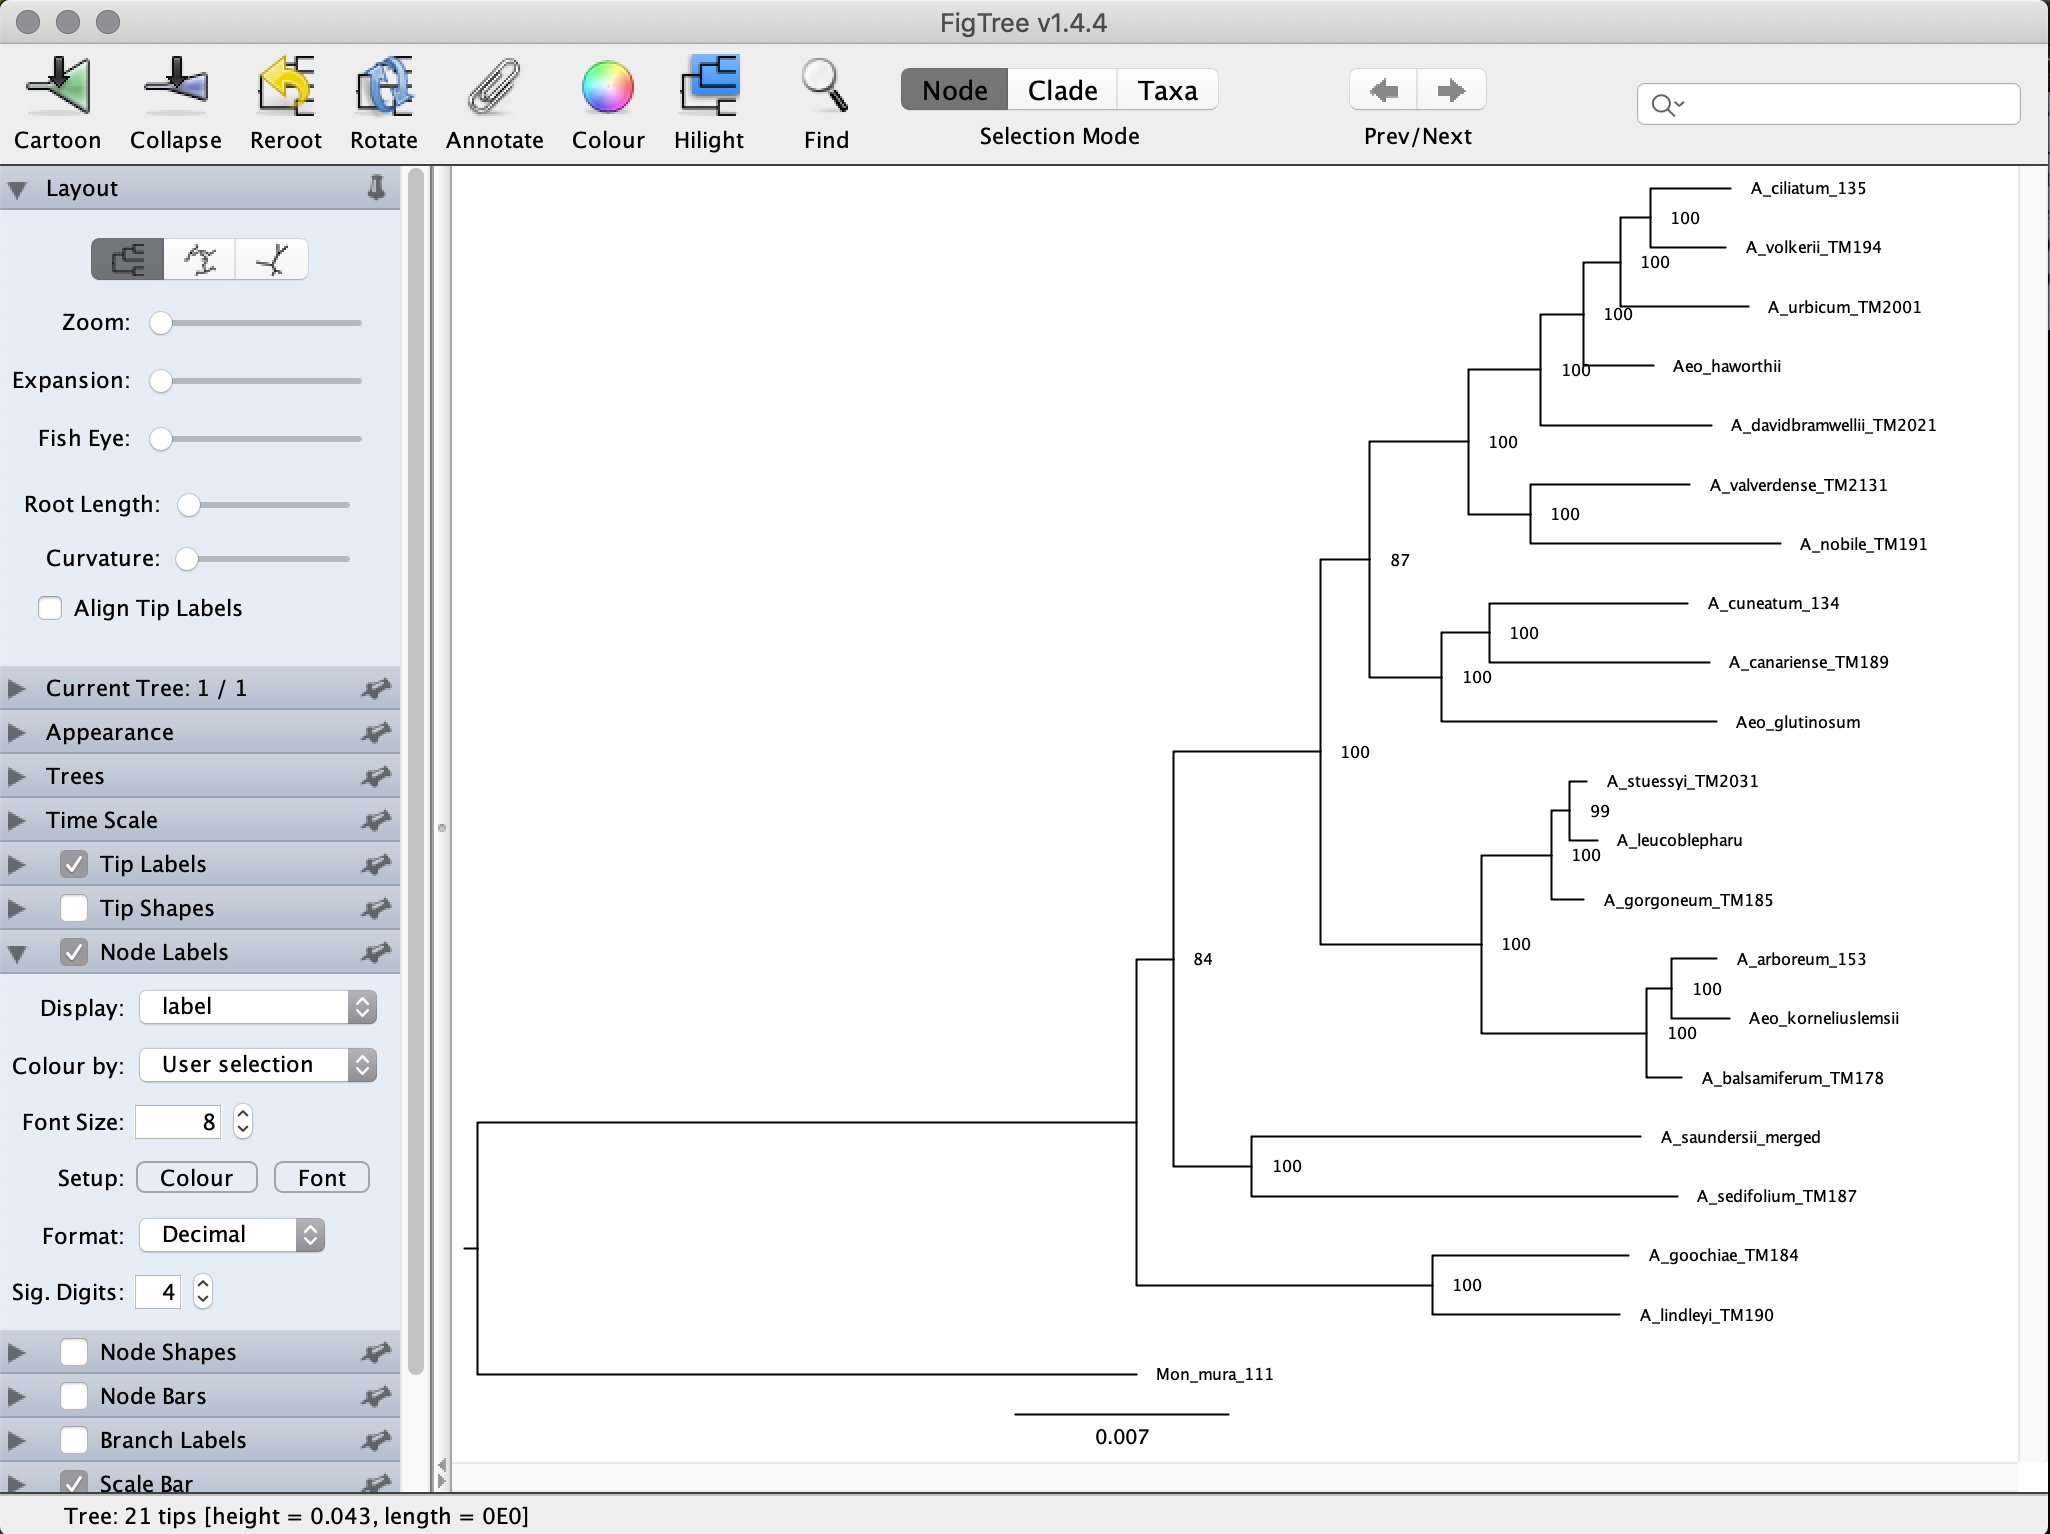
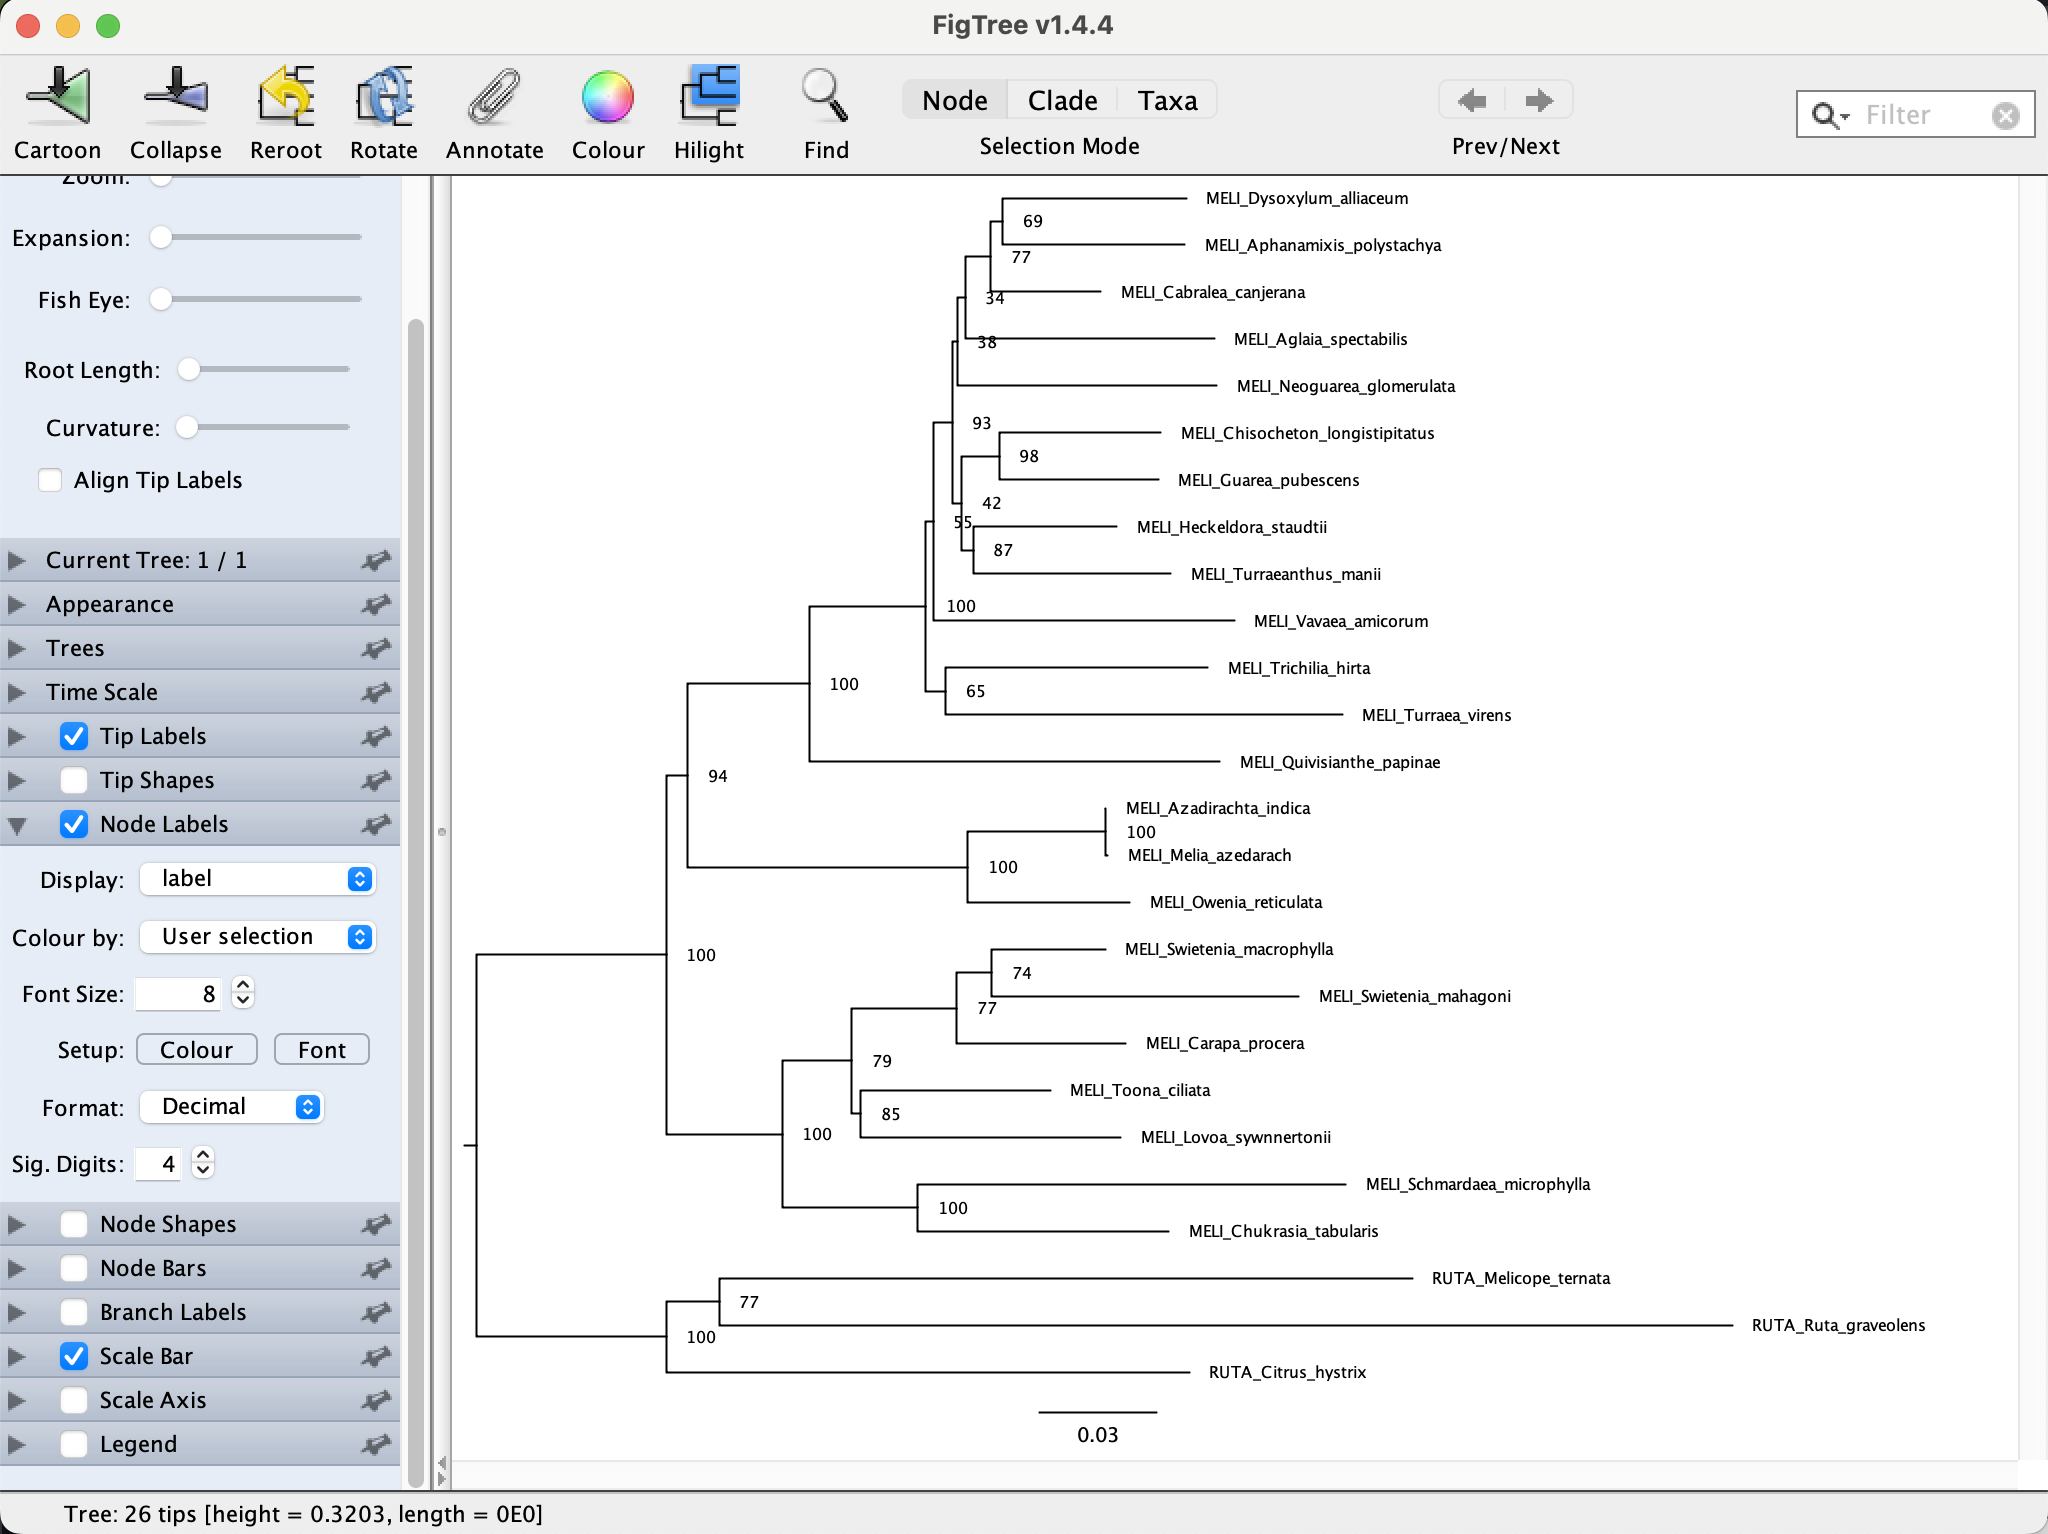
x

diff --git a/tutorials/ML.md b/tutorials/ML.md
@@ -33,7 +33,7 @@ Maximum-likelihood phylogenetic inference aims to find the parameters of an evol
 	
 	<p align="center"><img src="images/Iqtree_2.png" alt="IQTREE" width="900"></p>		
 
-* Scroll back in the IQ-TREE output. Which was the Best-fit model? 
+* Scroll back in the IQ-TREE output. Which one was the Best-fit model? 
 
 * Scroll to the end and there, you'll find parameter estimates for the selected substitution model, the maximum-likelihood value (given as logarithm after "BEST SCORE FOUND"), information on the run time, and the names of output files.
 
@@ -42,6 +42,8 @@ Maximum-likelihood phylogenetic inference aims to find the parameters of an evol
 	<p align="center"><img src="images/Iqtree_3.png" alt="IQTREE" width="900"></p>
 
 * All output file names were automatically chosen based on the name of the input file. This be changed this using the `--prefix` option.
+
+* All input and inference parameters can be found in the files `4471.aln.clipkit.log` and `4471.aln.clipkit.iqtree`
 
 <a name="figtree"></a>
 ## Reading and visualizing tree files
@@ -85,13 +87,13 @@ To identify which nodes in the phylogeny are more or less trustworthy, we will n
 
 		iqtree --help
 
-* Scroll towards the top of the help text, there you should find two sections titled "ULTRAFAST BOOTSTRAP/JACKKNIFE" and "NON-PARAMETRIC BOOTSTRAP/JACKKNIFE". In this occasion we are going to use the `-B` option to perform [Ultrafast Bootstrap](https://academic.oup.com/mbe/article/35/2/518/4565479) which is a significantly fast implementation of the standard non-parametric bootstrap [Felsenstein, 1986](https://doi.org/10.1111/j.1558-5646.1985.tb00420.x). 
+* Scroll towards the top of the help text, there you should find two sections titled "ULTRAFAST BOOTSTRAP/JACKKNIFE" and "NON-PARAMETRIC BOOTSTRAP/JACKKNIFE". In this occasion we are going to use the `-B` option to perform [Ultrafast Bootstrap](https://academic.oup.com/mbe/article/35/2/518/4565479) which is a significantly fast implementation of the standard non-parametric bootstrap [Felsenstein, 1986](https://doi.org/10.1111/j.1558-5646.1985.tb00420.x). IQ-TREE recommends a a minimum of 1,000 replicates, but IQ-TREE will automatically reduce this number if it detects that the resulting node-support values are stable also after a lower number of replicates.
 
 
-		 iqtree  -s 4471.aln.clipkit -B 100 --prefix 4471.aln.clipkit.bootstrap -T 4
+		 iqtree  -s 4471.aln.clipkit -B 1000 --prefix 4471.aln.clipkit.bootstrap -T 4
 	
 		
-* This command will run the 100 replicates for the ultrafast bootstrap + ML tree + consensus tree. Note that we are using the `--prefix` option to rename the output files. Otherwise the file names would be the same as in the previous run and IQ-TREE will produced an error and will ask to rewrite those files. The prefix not only provides the name of the files but also the directory path for the location of the output files.
+* This command will run the 1000 replicates for the ultrafast bootstrap + ML tree + consensus tree. Note that we are using the `--prefix` option to rename the output files. Otherwise the file names would be the same as in the previous run and IQ-TREE will produced an error and will ask to rewrite those files. The prefix not only provides the name of the files but also the directory path for the location of the output files.
 
 	The analysis should be done in in a minute or so.
 
@@ -149,18 +151,25 @@ To identify which nodes in the phylogeny are more or less trustworthy, we will n
 <p align="center"><img src="images/partition.png" alt="partition" width="900"></p>
 
 	
-The partition file specifies the kind of partition `DNA` a unique name of each partion (e.g. `fasta_files/Locus_597.x.phy.fa;` this is just the name of the original alignment file) and the size of each partition (i.e. the range of the each partion in the alignment).
+The partition file specifies the kind of partition `DNA` a unique name of each partion (e.g. `4744.ortho.aln.clipkit;` this is just the name of the original alignment file) and the size of each partition (i.e. the range of the each partion in the alignment).
 
 * To tell IQ-TREE to determine the ideal partitioning scheme itself, we need to use the options `-m MFP --merge`. This tells IQ-TREE to perform model selection on each partition and combine similar partiton to find the best scheme. This uses the implementation of Kalyaanamoorthy et al. ([2017](http://dx.doi.org/10.1038/nmeth.4285))
 
-* In this occasion we are going to use ultrafast bootstrap procedure with the `-B` option. IQ-TREE recommends a a minimum of 1,000 replicates, but IQ-TREE will automatically reduce this number if it detects that the resulting node-support values are stable also after a lower number of replicates. See Hoang et al. ([2017](https://academic.oup.com/mbe/article/35/2/518/4565479)) for more details. 
+* As in the individual gene tree we are going to use ultrafast bootstrap procedure with the `-B` option. 
 
+		conda activate captus
 
-		/home/morales/Apps/iqtree-2.0.7-Linux/bin/iqtree2  -m MFP --merge -s concatenated_2419_loci.fa -T 120 -B 1000 -q concatenated_aln.model --prefix DATA/IQ-tree_concatenated/output/IQtree2_concatenated_2419_loci
+		iqtree  -m MFP --merge -s meliaceae_4_loci_concat.fa -T 4 -B 1000 -p meliaceae_4_loci_concat.model --prefix meliaceae_4_loci_concat_iqtree
 
-* Running this analysis should be considerabl longer than the previous analysis of one individual locus. One way to speed things up is running IQ-TREE using multiple CPUs with the `-T` options. In this case, I will use `-T 120`. If not sure about the number of CPUs available you can use `-T AUTO`
+* Running this analysis should take longer than the previous analyses of one individual locus. One way to speed things up is running IQ-TREE using multiple CPUs with the `-T` options. In this case, I will use `-T 2`. If not sure about the number of CPUs available you can use `-T AUTO`
 
-* You do not need to run this as it will take too much time. The output files for this analyses are located at `DATA/IQ-tree_concatenated/output`.
+	The	run should take a couple of minutes
+	
+* To see the partition scheme and the best model of sequence evolution for each partition open the file `meliaceae_4_loci_concat_iqtree.best_model.nex`
+
+		cat meliaceae_4_loci_concat_iqtree.best_model.nex	
+
+<p align="center"><img src="images/partition_model.png" alt="partitionmodel" width="900"></p>
 
 * Open the file `IQtree2_concatenated_2419_loci.treefile`
 
